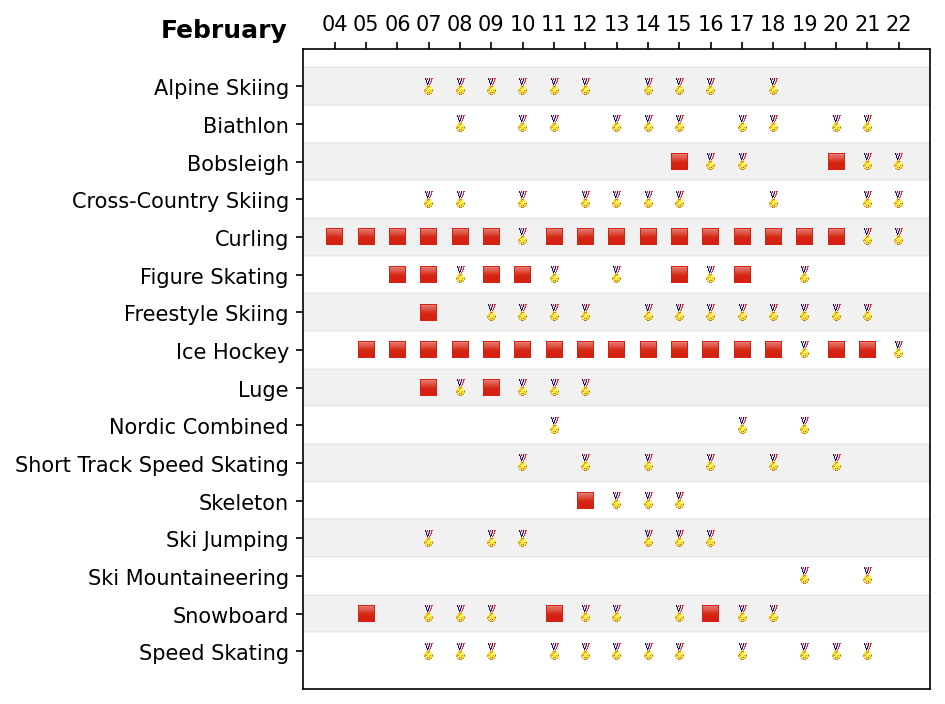
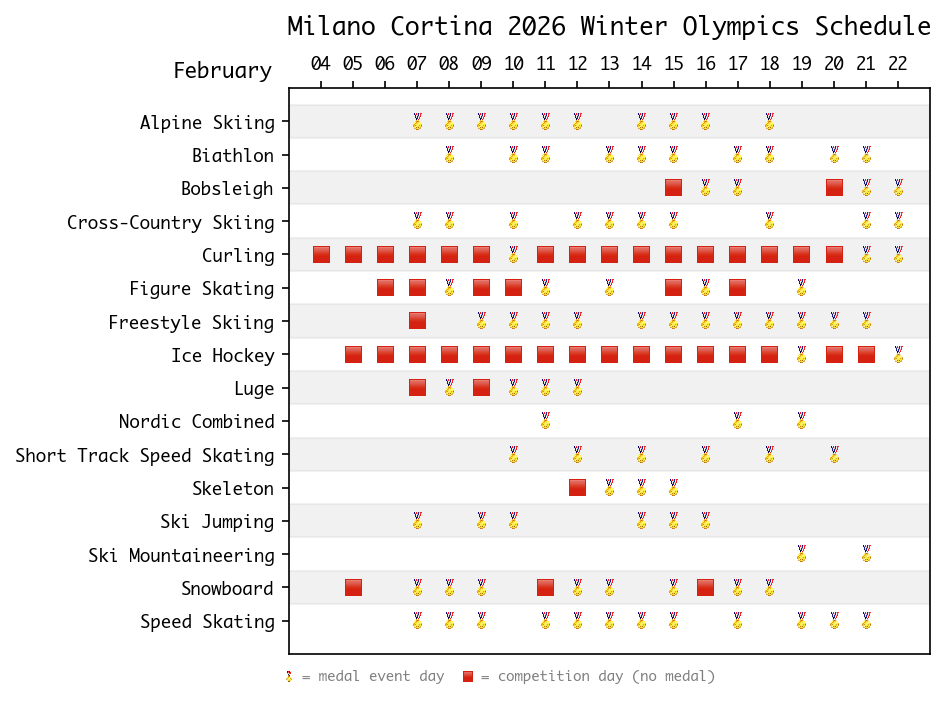
finished plot output with footnote

diff --git a/2026/week_06_winter_olympics/TidyTuesday_20260210.py b/2026/week_06_winter_olympics/TidyTuesday_20260210.py
@@ -4,9 +4,10 @@
 
 # --1. libraries --
 import pandas as pd
-import numpy as np
+#import numpy as np
 import matplotlib.pyplot as plt
-import matplotlib.dates as mdates
+#import matplotlib.dates as mdates
+#import matplotlib.font_manager as fm
 from matplotlib.offsetbox import OffsetImage, AnnotationBbox
 from datetime import date
 
@@ -14,7 +15,7 @@ from datetime import date
 olympic_raw = pd.read_csv('https://raw.githubusercontent.com/rfordatascience/tidytuesday/main/data/2026/2026-02-10/schedule.csv')
 olympic = olympic_raw.copy()
 
-# --3. Prep data --
+# --3. Prep data --------------------------------
 
 # remove the training sessions
 olympic= olympic[olympic['is_training'] == False]
@@ -32,7 +33,7 @@ day_types = (
     .rename(columns={'is_medal_event':'has_medal_event'})
 )
 
-# --4. Create plot to show schedule 
+# --4. Create plot to show schedule ----------------
 # disciplines
 disciplines = sorted(day_types['discipline_name'].unique())
 # unique dates
@@ -40,6 +41,9 @@ dates = sorted(day_types['end_datetime_local'].unique())
 
 # create the figure and axes
 fig, ax = plt.subplots()
+
+# fontface for plot
+plt.rcParams['font.family'] = 'Osaka'
 
 # add the February xaxis title top left
 ax.text(-1.5, -1.5, 'February', 
@@ -57,6 +61,12 @@ ax.set_xlim(-1, len(dates))
 # set yaxis labels and have white space at edges
 ax.set_yticks(range(len(disciplines)), labels=disciplines)
 ax.set_ylim(len(disciplines), -1)
+
+# plot title
+ax.set_title(
+    "Milano Cortina 2026 Winter Olympics Schedule", 
+    pad=10, 
+    fontdict={'fontweight': 'bold', 'fontsize': 14})
 
 # read in the custom emojis to use in the plot
 medal_img = plt.imread('2026/week_06_winter_olympics/images/medal.png')
@@ -77,6 +87,41 @@ for _, row in day_types.iterrows():
     imagebox = OffsetImage(img, zoom=0.05)
     ab = AnnotationBbox(imagebox, (x, y), frameon=False)
     ax.add_artist(ab)
+
+# -- 5. Plot footnote ----------------------------------
+# adding foot note with emojis using annotation boxes
+
+# add medal image to footnote
+medal_legend = OffsetImage(medal_img, zoom=0.03)
+ab_medal = AnnotationBbox(medal_legend, 
+                          xy=(0, -0.04),
+                          xycoords='axes fraction',
+                          frameon=False)
+ax.add_artist(ab_medal)
+
+# add text next to medal image
+ax.annotate('= medal event day',
+            xy=(0.02, -0.04),
+            xycoords='axes fraction',
+            fontsize=8,
+            color='grey',
+            va='center')
+
+# add square image to footnote
+square_legend = OffsetImage(square_img, zoom=0.03)
+ab_square = AnnotationBbox(square_legend,
+                           xy=(0.28, -0.04),
+                           xycoords='axes fraction',
+                           frameon=False)
+ax.add_artist(ab_square)
+
+# add text next to square image
+ax.annotate('= competition day (no medal)',
+            xy=(0.30, -0.04),
+            xycoords='axes fraction',
+            fontsize=8,
+            color='grey',
+            va='center')
 
 plt.savefig('2026/week_06_winter_olympics/plots/olympic2026_schedule.png', 
             dpi=150, bbox_inches='tight')
